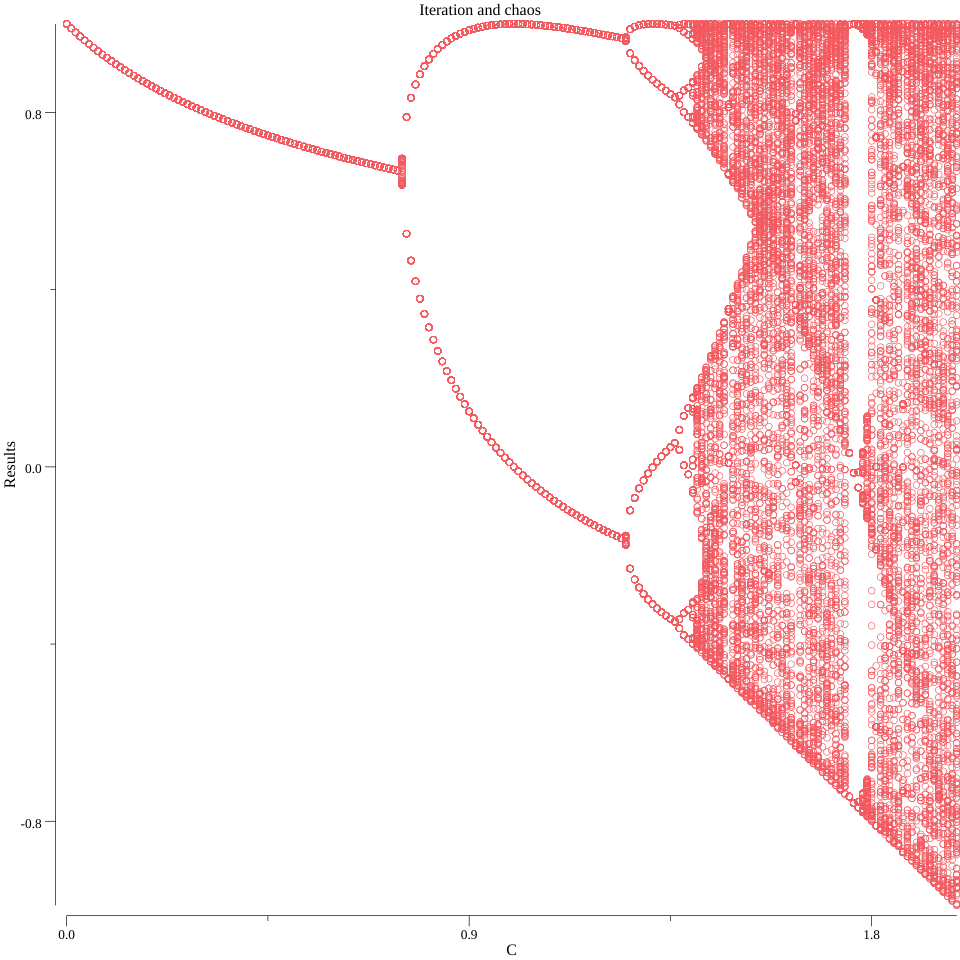
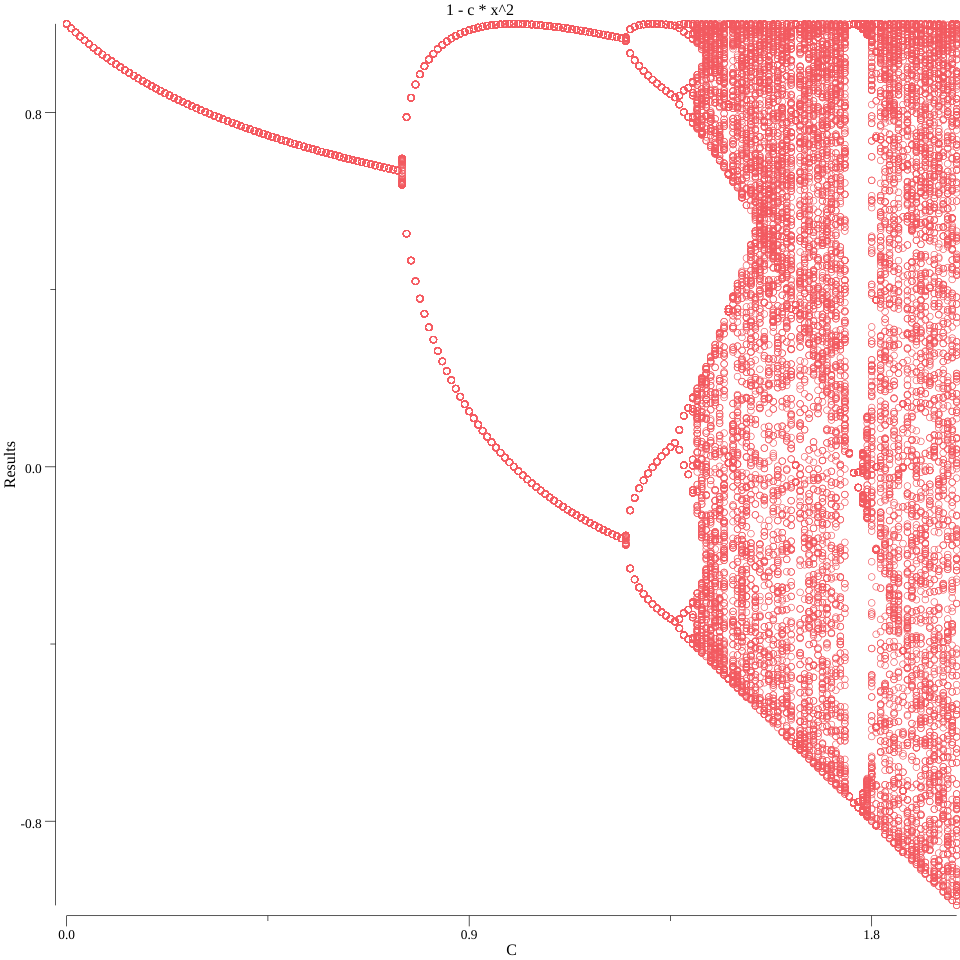
Add second fun for chaos and iter

Changed region(s): [[0.7188, 0.0312, 1.0, 0.9375], [0.4375, 0.0, 0.5625, 0.0312]]

diff --git a/chaos_iter/chaos.go b/chaos_iter/chaos.go
@@ -17,15 +17,26 @@ import (
 )
 
 type t struct {
-	n int
-	c float64
+	n          int
+	c          float64
+	minx, maxx float64
+	minc, maxc float64
+	f          f
+	fileName   string
+	fun        string
 }
 
-func f(c, x float64) float64 {
+type f func(c, x float64) float64
+
+func f1(c, x float64) float64 {
 	return 1 - c*x*x
 }
 
-func nth_f(n int, c, x float64) float64 {
+func f2(c, x float64) float64 {
+	return c * x * (1 - x)
+}
+
+func nth_f(n int, c, x float64, f f) float64 {
 	res := x
 	for i := 0; i < n; i++ {
 		res = f(c, res)
@@ -33,34 +44,40 @@ func nth_f(n int, c, x float64) float64 {
 	return res
 }
 
-func (t t) Len() int {
+func (t *t) Len() int {
 	return 300
 }
 
-func (t t) XY(i int) (float64, float64) {
-	x0 := -1 + (2/float64(t.Len()))*float64(i)
-	return float64(t.c), nth_f(t.n, t.c, x0)
+func (t *t) XY(i int) (float64, float64) {
+	x0 := t.minx + ((t.maxx-t.minx)/float64(t.Len()+2))*float64(i+1)
+	return float64(t.c), nth_f(t.n, t.c, x0, t.f)
 }
 
-func main() {
+func chaosGraph(t *t) {
 	p, err := plot.New()
 	if err != nil {
 		panic(err)
 	}
 
-	p.Title.Text = "Iteration and chaos"
+	p.Title.Text = t.fun
 	p.X.Label.Text = "C"
 	p.Y.Label.Text = "Results"
 
-	for i := float64(0); i < 2; i += 0.01 {
-		err = plotutil.AddScatters(p, t{1000, i})
+	for i := t.minc; i < t.maxc; i += 0.01 {
+		t.c = i
+		err = plotutil.AddScatters(p, t)
 
 		if err != nil {
 			panic(err)
 		}
 	}
 
-	if err := p.Save(10*vg.Inch, 10*vg.Inch, "chaos.png"); err != nil {
+	if err := p.Save(10*vg.Inch, 10*vg.Inch, t.fileName); err != nil {
 		panic(err)
 	}
+}
+
+func main() {
+	chaosGraph(&t{1000, 0, -1, 1, 0, 2, f1, "chaos.png", "1 - c * x^2"})
+	chaosGraph(&t{1000, 0, 0, 1, 2.4, 4, f2, "chaos2.png", "c * x * (1 - x)"})
 }

diff --git a/chaos_iter/README.md b/chaos_iter/README.md
@@ -20,3 +20,4 @@ eog chaos.png
 ```
 
 ![Chaos and iterations](chaos.png?raw=true "Chaos and iterations")
+![Chaos and iterations](chaos2.png?raw=true "Chaos and iterations")
